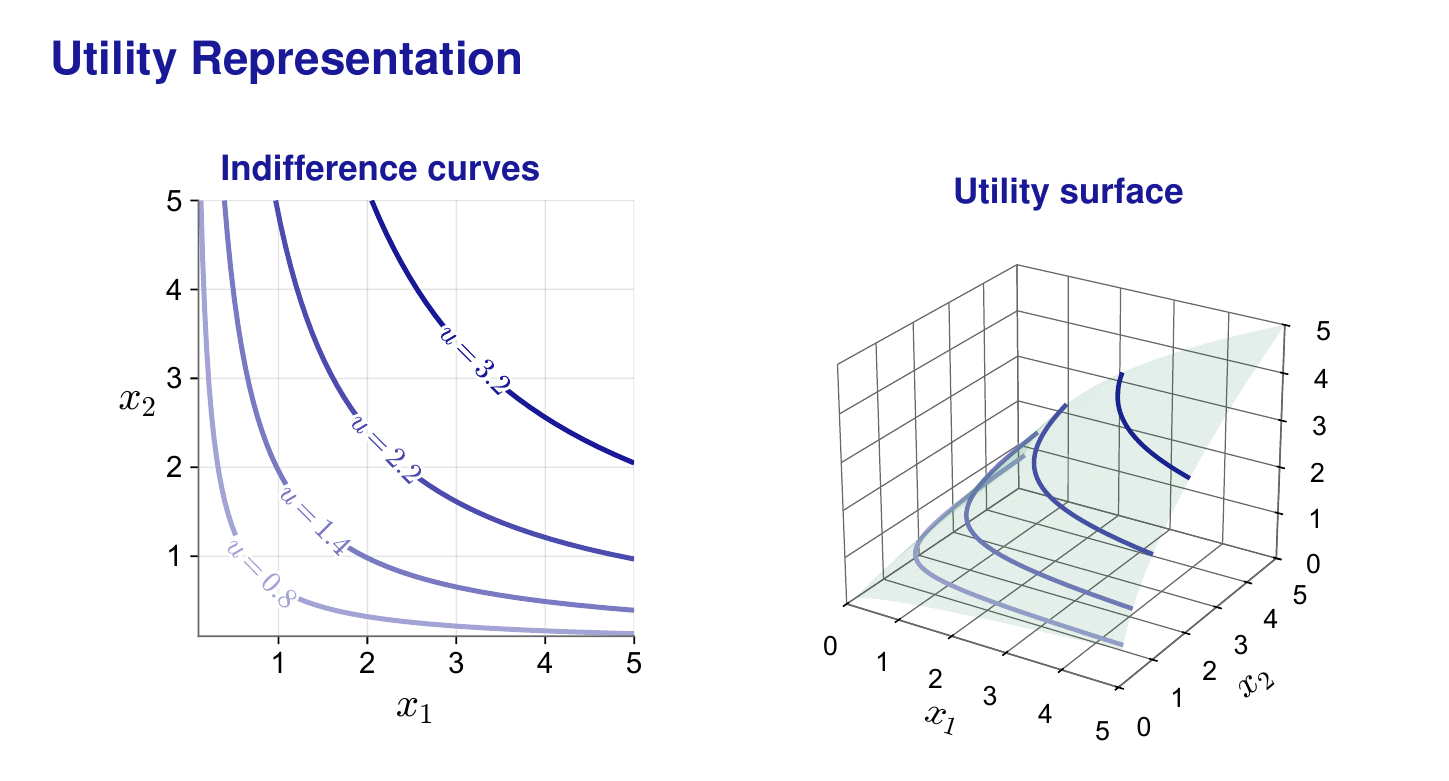
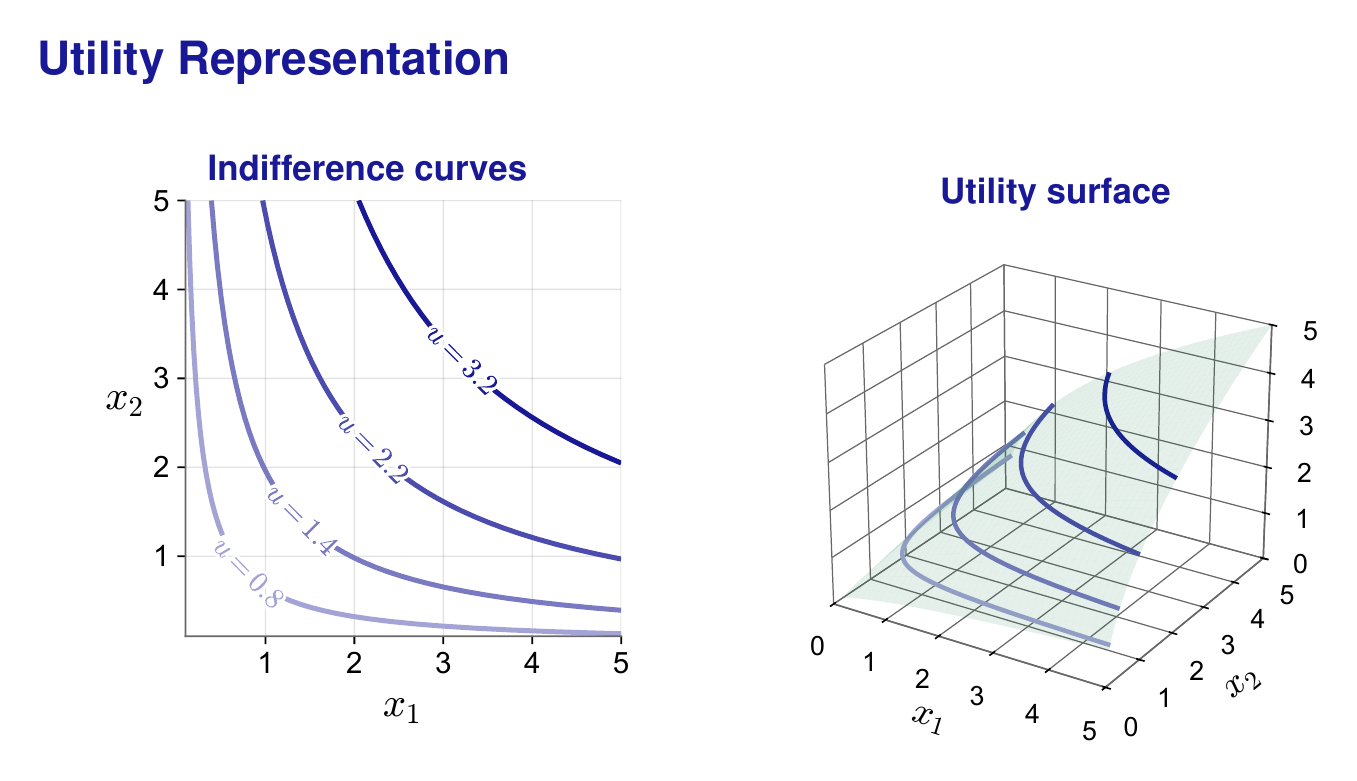
Frame the slide image and even out its margins
The crop had 53px of white on the left and 119px on the right; now 40px
on all four sides. A hairline border makes the slide's extent visible
against the white page.

diff --git a/index.html b/index.html
@@ -2,4 +2,4 @@
 <a href=/#research>Research</a>
 <a href=/#teaching>Teaching</a>
 <a href=/cv_mvazcar.pdf>CV</a>
-<a href=https://github.com/mvazcar>Code</a></nav></header><main><p class=role-line><strong>PhD candidate in Economics</strong><br>Universidad Carlos III de Madrid</p><p>I am an economist studying the macroeconomics of firm dynamics, competition, and resource reallocation. My research examines how these forces shape aggregate productivity and long-run growth. I also conduct impact evaluations using experiments and quasi-experiments.</p><p>I will be on the academic job market in <strong>2027–2028</strong>.</p><p>You can contact me at <a href=mailto:mvazcar@eco.uc3m.es>mvazcar@eco.uc3m.es</a>.</p><p><span class=anchor id=research></span></p><h2 id=current-research>Current research</h2><h3 class=paper-title id=from-firm-demographics-to-measured-tfp>From firm demographics to measured TFP</h3><p class=byline>with Andrés Erosa and Sevi Mora</p><p><span class=anchor id=teaching></span></p><h2 id=teaching>Teaching</h2><h3 id=mathematics-bootcamp>Mathematics Bootcamp</h3><p>A five-day introduction to the mathematics used in graduate economics, taught before the start of the program. Slides and figure codes are on <a href=https://github.com/mvazcar/math_bootcamp>GitHub</a>.</p><p style="text-align:center;margin-top:1.1rem"><a href=https://raw.githubusercontent.com/mvazcar/math_bootcamp/main/output/pdf/math3.pdf><img src=/assets/indifference-curves.png style="width:100%;max-width:100%;height:auto" alt="A slide from Day 3: four indifference curves on the left, the same utility function drawn as a surface on the right."></a></p><ul><li><a href=https://raw.githubusercontent.com/mvazcar/math_bootcamp/main/output/pdf/math1.pdf>Day 1: Proofs and Choice Theory</a></li><li><a href=https://raw.githubusercontent.com/mvazcar/math_bootcamp/main/output/pdf/math2.pdf>Day 2: Functions, Counting, The Real Numbers</a></li><li><a href=https://raw.githubusercontent.com/mvazcar/math_bootcamp/main/output/pdf/math3.pdf>Day 3: Preferences and Utility</a></li><li><a href=https://raw.githubusercontent.com/mvazcar/math_bootcamp/main/output/pdf/math4.pdf>Day 4: Optimization</a></li><li><a href=https://raw.githubusercontent.com/mvazcar/math_bootcamp/main/output/pdf/math5.pdf>Day 5: General Equilibrium</a></li></ul></main><footer></footer></body></html>
+<a href=https://github.com/mvazcar>Code</a></nav></header><main><p class=role-line><strong>PhD candidate in Economics</strong><br>Universidad Carlos III de Madrid</p><p>I am an economist studying the macroeconomics of firm dynamics, competition, and resource reallocation. My research examines how these forces shape aggregate productivity and long-run growth. I also conduct impact evaluations using experiments and quasi-experiments.</p><p>I will be on the academic job market in <strong>2027–2028</strong>.</p><p>You can contact me at <a href=mailto:mvazcar@eco.uc3m.es>mvazcar@eco.uc3m.es</a>.</p><p><span class=anchor id=research></span></p><h2 id=current-research>Current research</h2><h3 class=paper-title id=from-firm-demographics-to-measured-tfp>From firm demographics to measured TFP</h3><p class=byline>with Andrés Erosa and Sevi Mora</p><p><span class=anchor id=teaching></span></p><h2 id=teaching>Teaching</h2><h3 id=mathematics-bootcamp>Mathematics Bootcamp</h3><p>A five-day introduction to the mathematics used in graduate economics, taught before the start of the program. Slides and figure codes are on <a href=https://github.com/mvazcar/math_bootcamp>GitHub</a>.</p><p style="text-align:center;margin-top:1.1rem"><a href=https://raw.githubusercontent.com/mvazcar/math_bootcamp/main/output/pdf/math3.pdf><img src=/assets/indifference-curves.png style="width:100%;height:auto;border:1px solid #e5e5e5" alt="A slide from Day 3: four indifference curves on the left, the same utility function drawn as a surface on the right."></a></p><ul><li><a href=https://raw.githubusercontent.com/mvazcar/math_bootcamp/main/output/pdf/math1.pdf>Day 1: Proofs and Choice Theory</a></li><li><a href=https://raw.githubusercontent.com/mvazcar/math_bootcamp/main/output/pdf/math2.pdf>Day 2: Functions, Counting, The Real Numbers</a></li><li><a href=https://raw.githubusercontent.com/mvazcar/math_bootcamp/main/output/pdf/math3.pdf>Day 3: Preferences and Utility</a></li><li><a href=https://raw.githubusercontent.com/mvazcar/math_bootcamp/main/output/pdf/math4.pdf>Day 4: Optimization</a></li><li><a href=https://raw.githubusercontent.com/mvazcar/math_bootcamp/main/output/pdf/math5.pdf>Day 5: General Equilibrium</a></li></ul></main><footer></footer></body></html>
